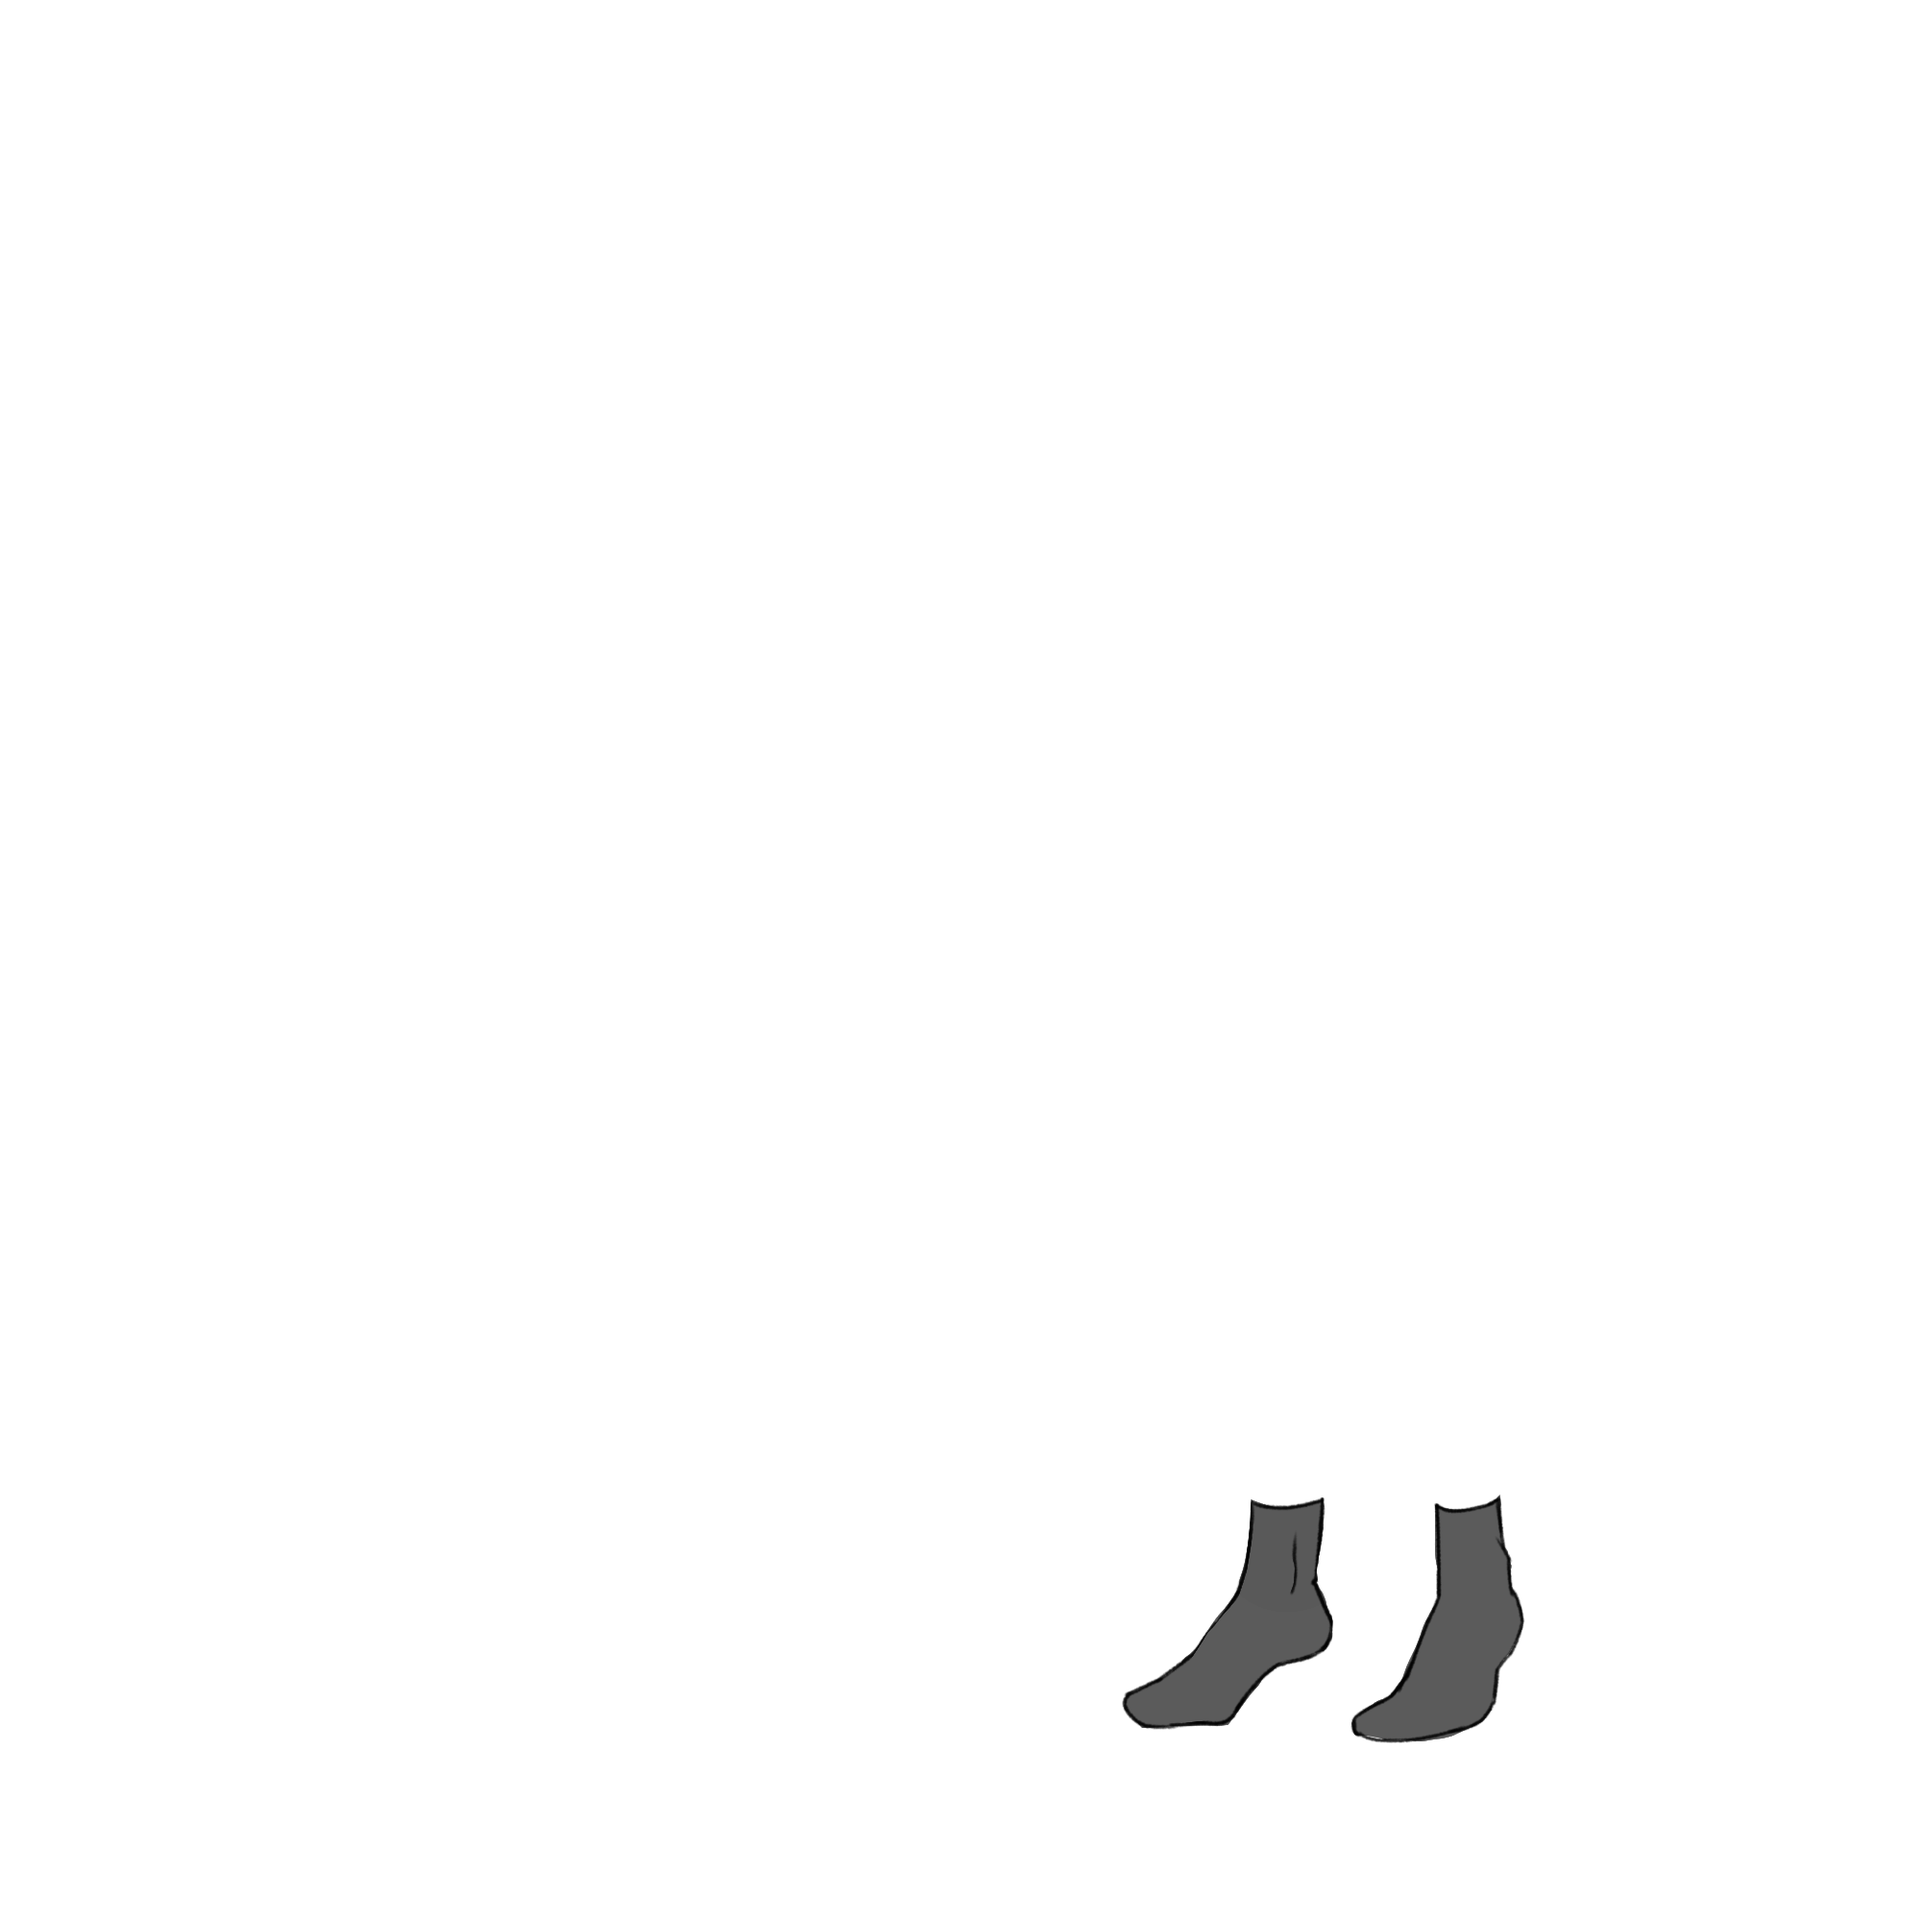
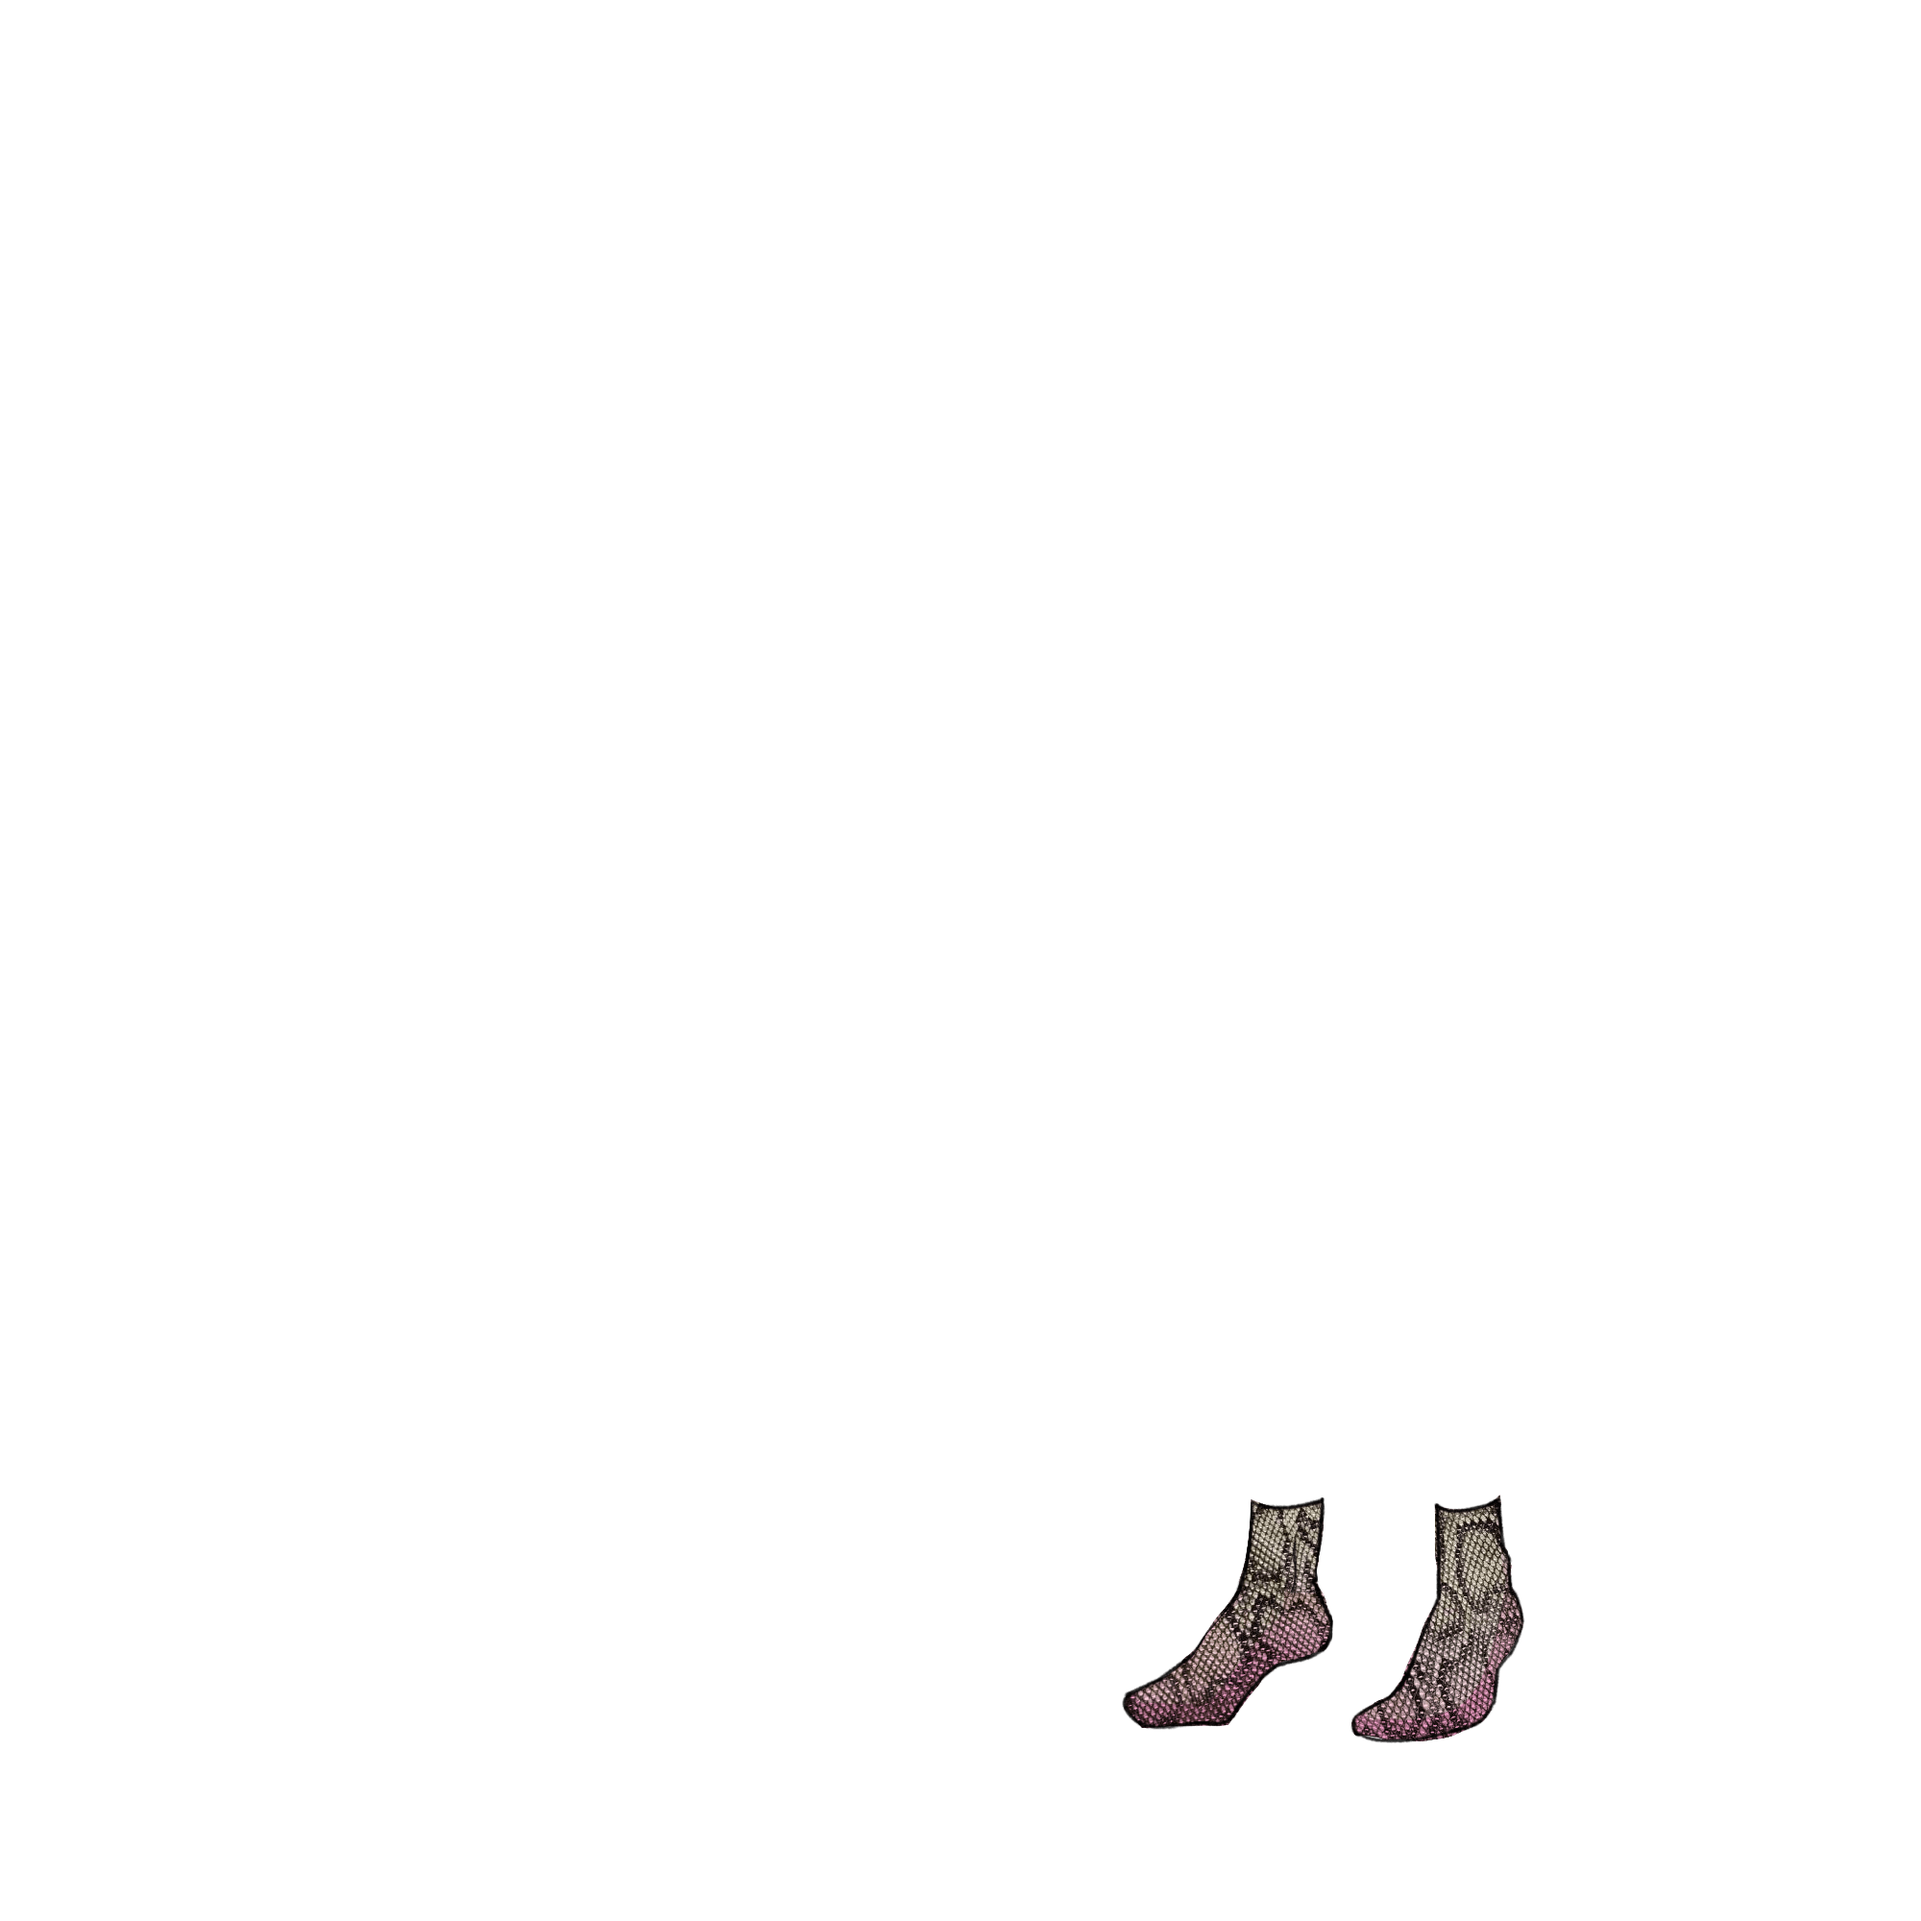
Fixed stuff

Changed region(s): [[0.589, 0.775, 0.806, 0.93]]

diff --git a/index.html b/index.html
@@ -220,6 +220,11 @@
             background-color: #9476ce;
             color: white;
         }
+
+        button:disabled {
+            opacity: 0.7;
+            cursor: not-allowed;
+        }
         
         .clear-btn {
             background: white;
@@ -403,12 +408,12 @@
     <div class="controls">
         <div class="outfits-scroll-container">
             <div class="outfits">
-            <button onclick="specialLook(event)">Домашний образ</button>
-            <button onclick="specialLook(event)">Петровский</button>
-            <button onclick="specialLook(event)">Выход в свет</button>
-            <button onclick="specialLook(event)">Высокая мода</button>
-            <button onclick="specialLook(event)">Домашний образ 2.0</button>
-            <button onclick="specialLook(event)">Училка информатики</button>
+            <button disabled="disabled" onclick="specialLook(event)">Домашний образ</button>
+            <button disabled="disabled" onclick="specialLook(event)">Петровский</button>
+            <button disabled="disabled" onclick="specialLook(event)">Выход в свет</button>
+            <button disabled="disabled" onclick="specialLook(event)">Высокая мода</button>
+            <button disabled="disabled" onclick="specialLook(event)">Домашний образ 2.0</button>
+            <button disabled="disabled" onclick="specialLook(event)">Училка информатики</button>
             </div>
         </div>
 
@@ -642,7 +647,8 @@
 
                 // defaults
                 setupClothesType('undies');
-                show('assets/hair1');
+
+                document.querySelectorAll('button').forEach((btn) => { btn.disabled = false; });
 
                 imageMenu.addEventListener('click', (e) => {
                     // убираем луки
@@ -667,15 +673,15 @@
                             }
 
                             // снимаем старые носки
-                            if (['assets/undies7mini', 'assets/undies8mini', 'assets/undies9mini', 'assets/undies10mini', 'assets/undies11mini'].includes(menuItem.id)) {
-                                for (let sock of ['assets/undies7', 'assets/undies8', 'assets/undies9', 'assets/undies10', 'assets/undies11']) {
+                            if (['assets/undies8mini', 'assets/undies9mini', 'assets/undies10mini', 'assets/undies11mini', 'assets/undies12mini'].includes(menuItem.id)) {
+                                for (let sock of ['assets/undies8', 'assets/undies9', 'assets/undies10', 'assets/undies11', 'assets/undies12']) {
                                     hide(sock);
                                 }
                             }
 
                             // снимаем старые чулки
-                            if (['assets/undies4mini', 'assets/undies5mini', 'assets/undies6mini', 'assets/undies12mini'].includes(menuItem.id)) {
-                                for (let stocking of ['assets/undies4', 'assets/undies5', 'assets/undies6', 'assets/undies12']) {
+                            if (['assets/undies4mini', 'assets/undies5mini', 'assets/undies6mini', 'assets/undies7mini'].includes(menuItem.id)) {
+                                for (let stocking of ['assets/undies4', 'assets/undies5', 'assets/undies6', 'assets/undies7']) {
                                     hide(stocking);
                                 }
                             }
@@ -786,7 +792,7 @@
             switch (event.target.textContent) {
                 case 'Домашний образ':
                     show('assets/undies2');
-                    show('assets/undies11');
+                    show('assets/undies12');
                     show('assets/shirts7');
                     show('assets/shoes2');
                     show('assets/accessories3');
@@ -821,7 +827,7 @@
                     show('assets/shirts12');
                     show('assets/pants8');
                     show('assets/shoes4');
-                    show('assets/undies12');
+                    show('assets/undies7');
                     show('assets/accessories5');
                     break;
             }
